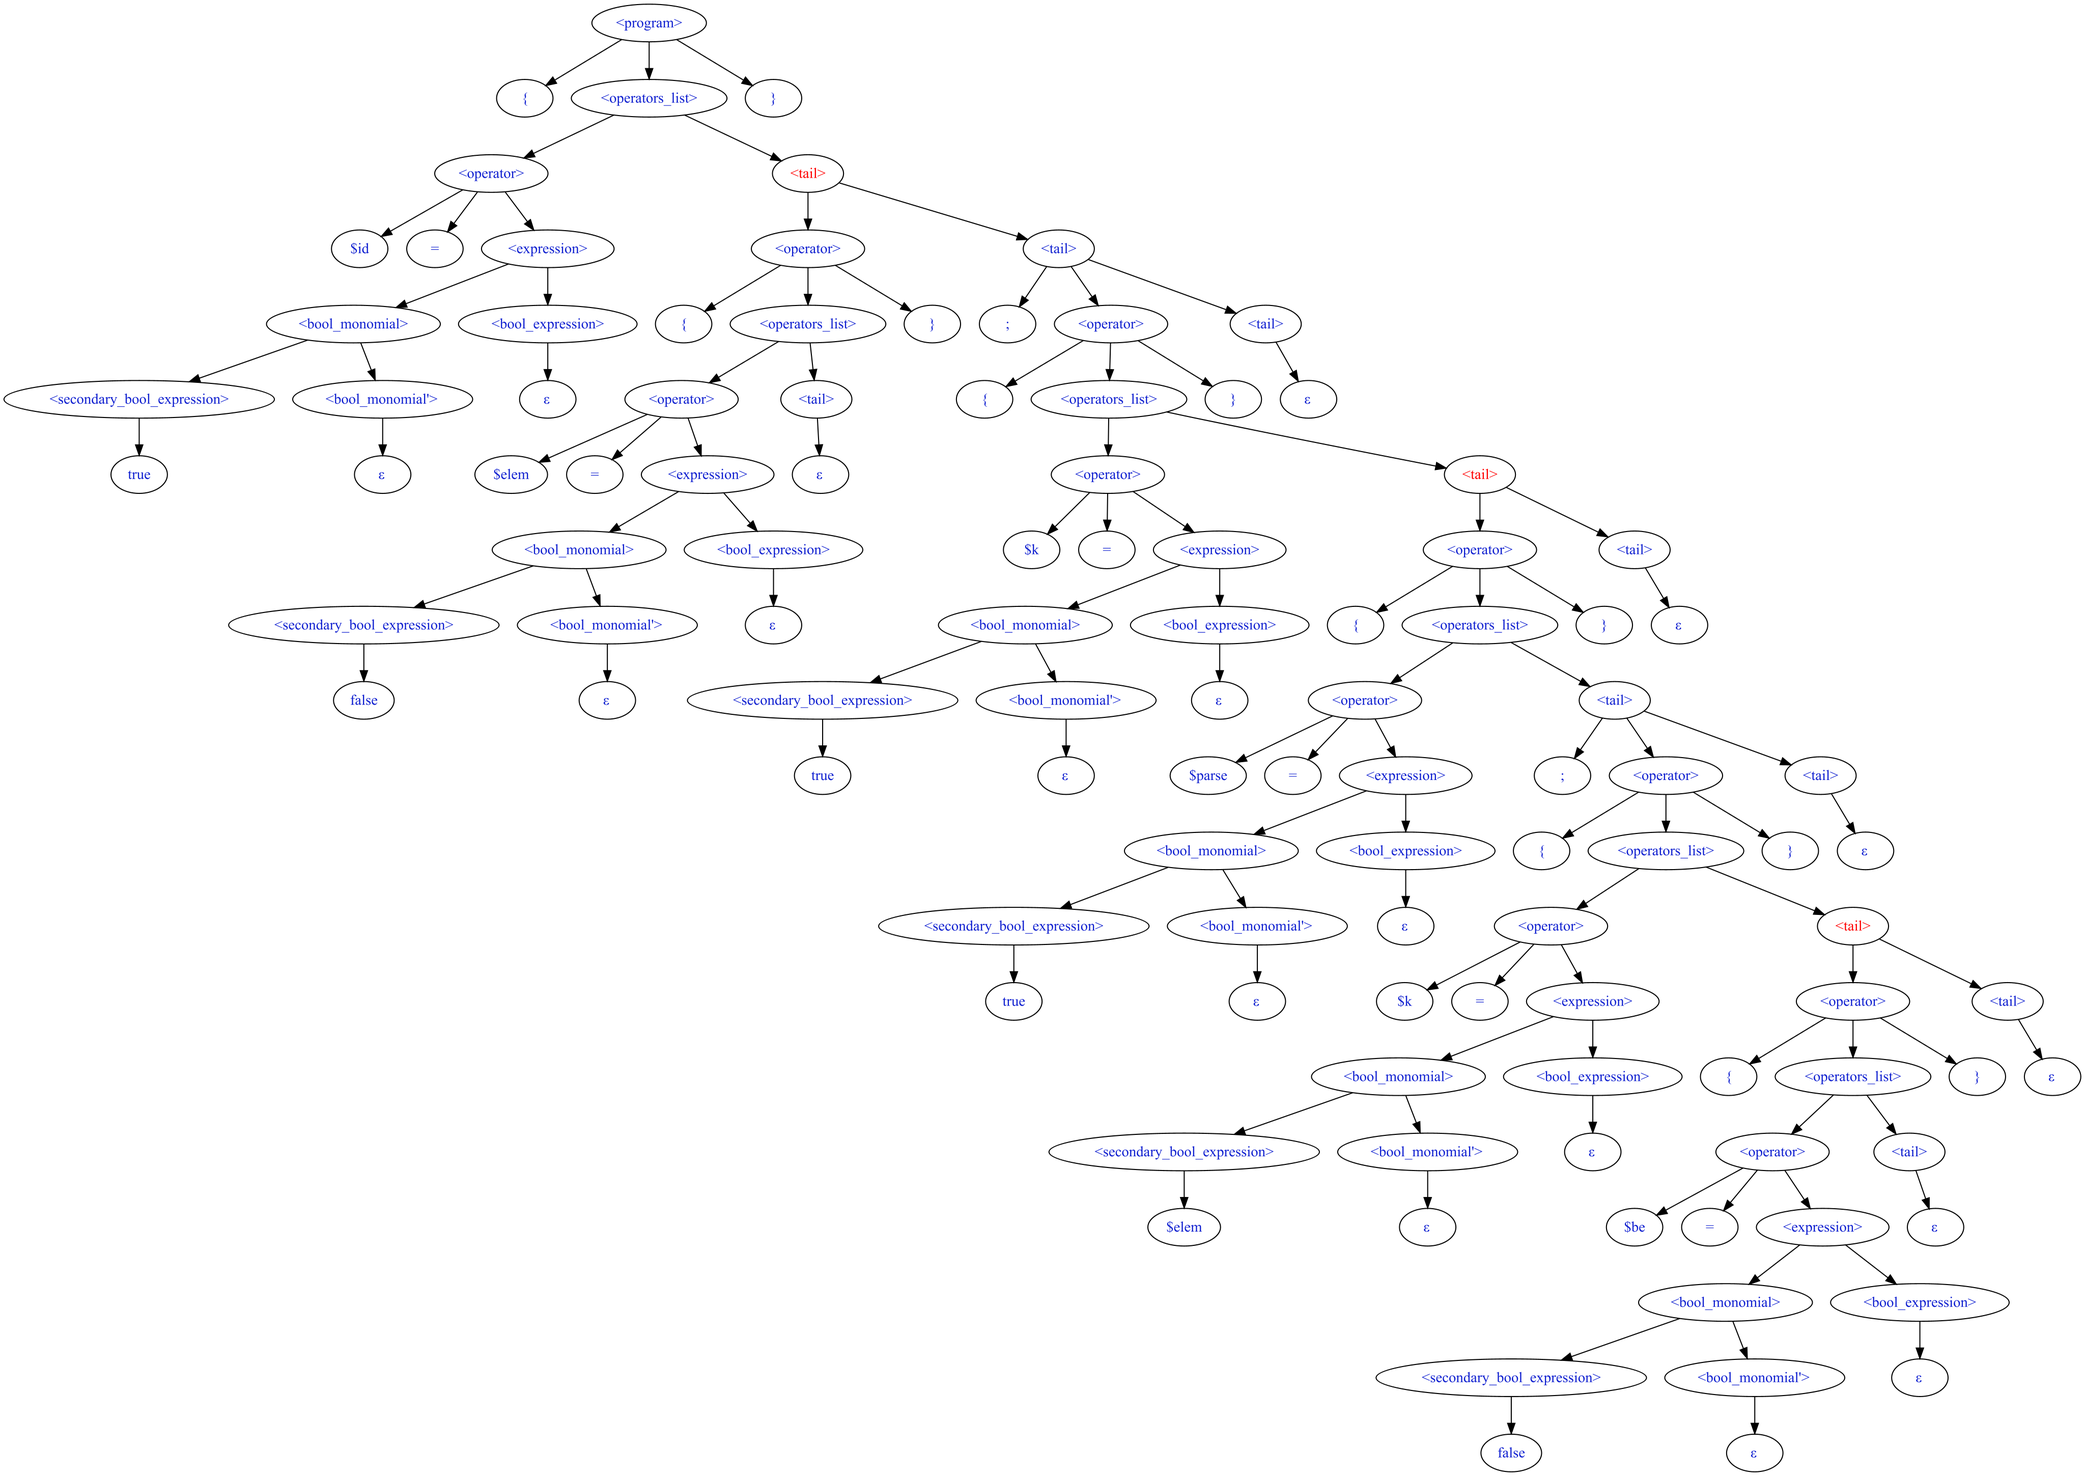
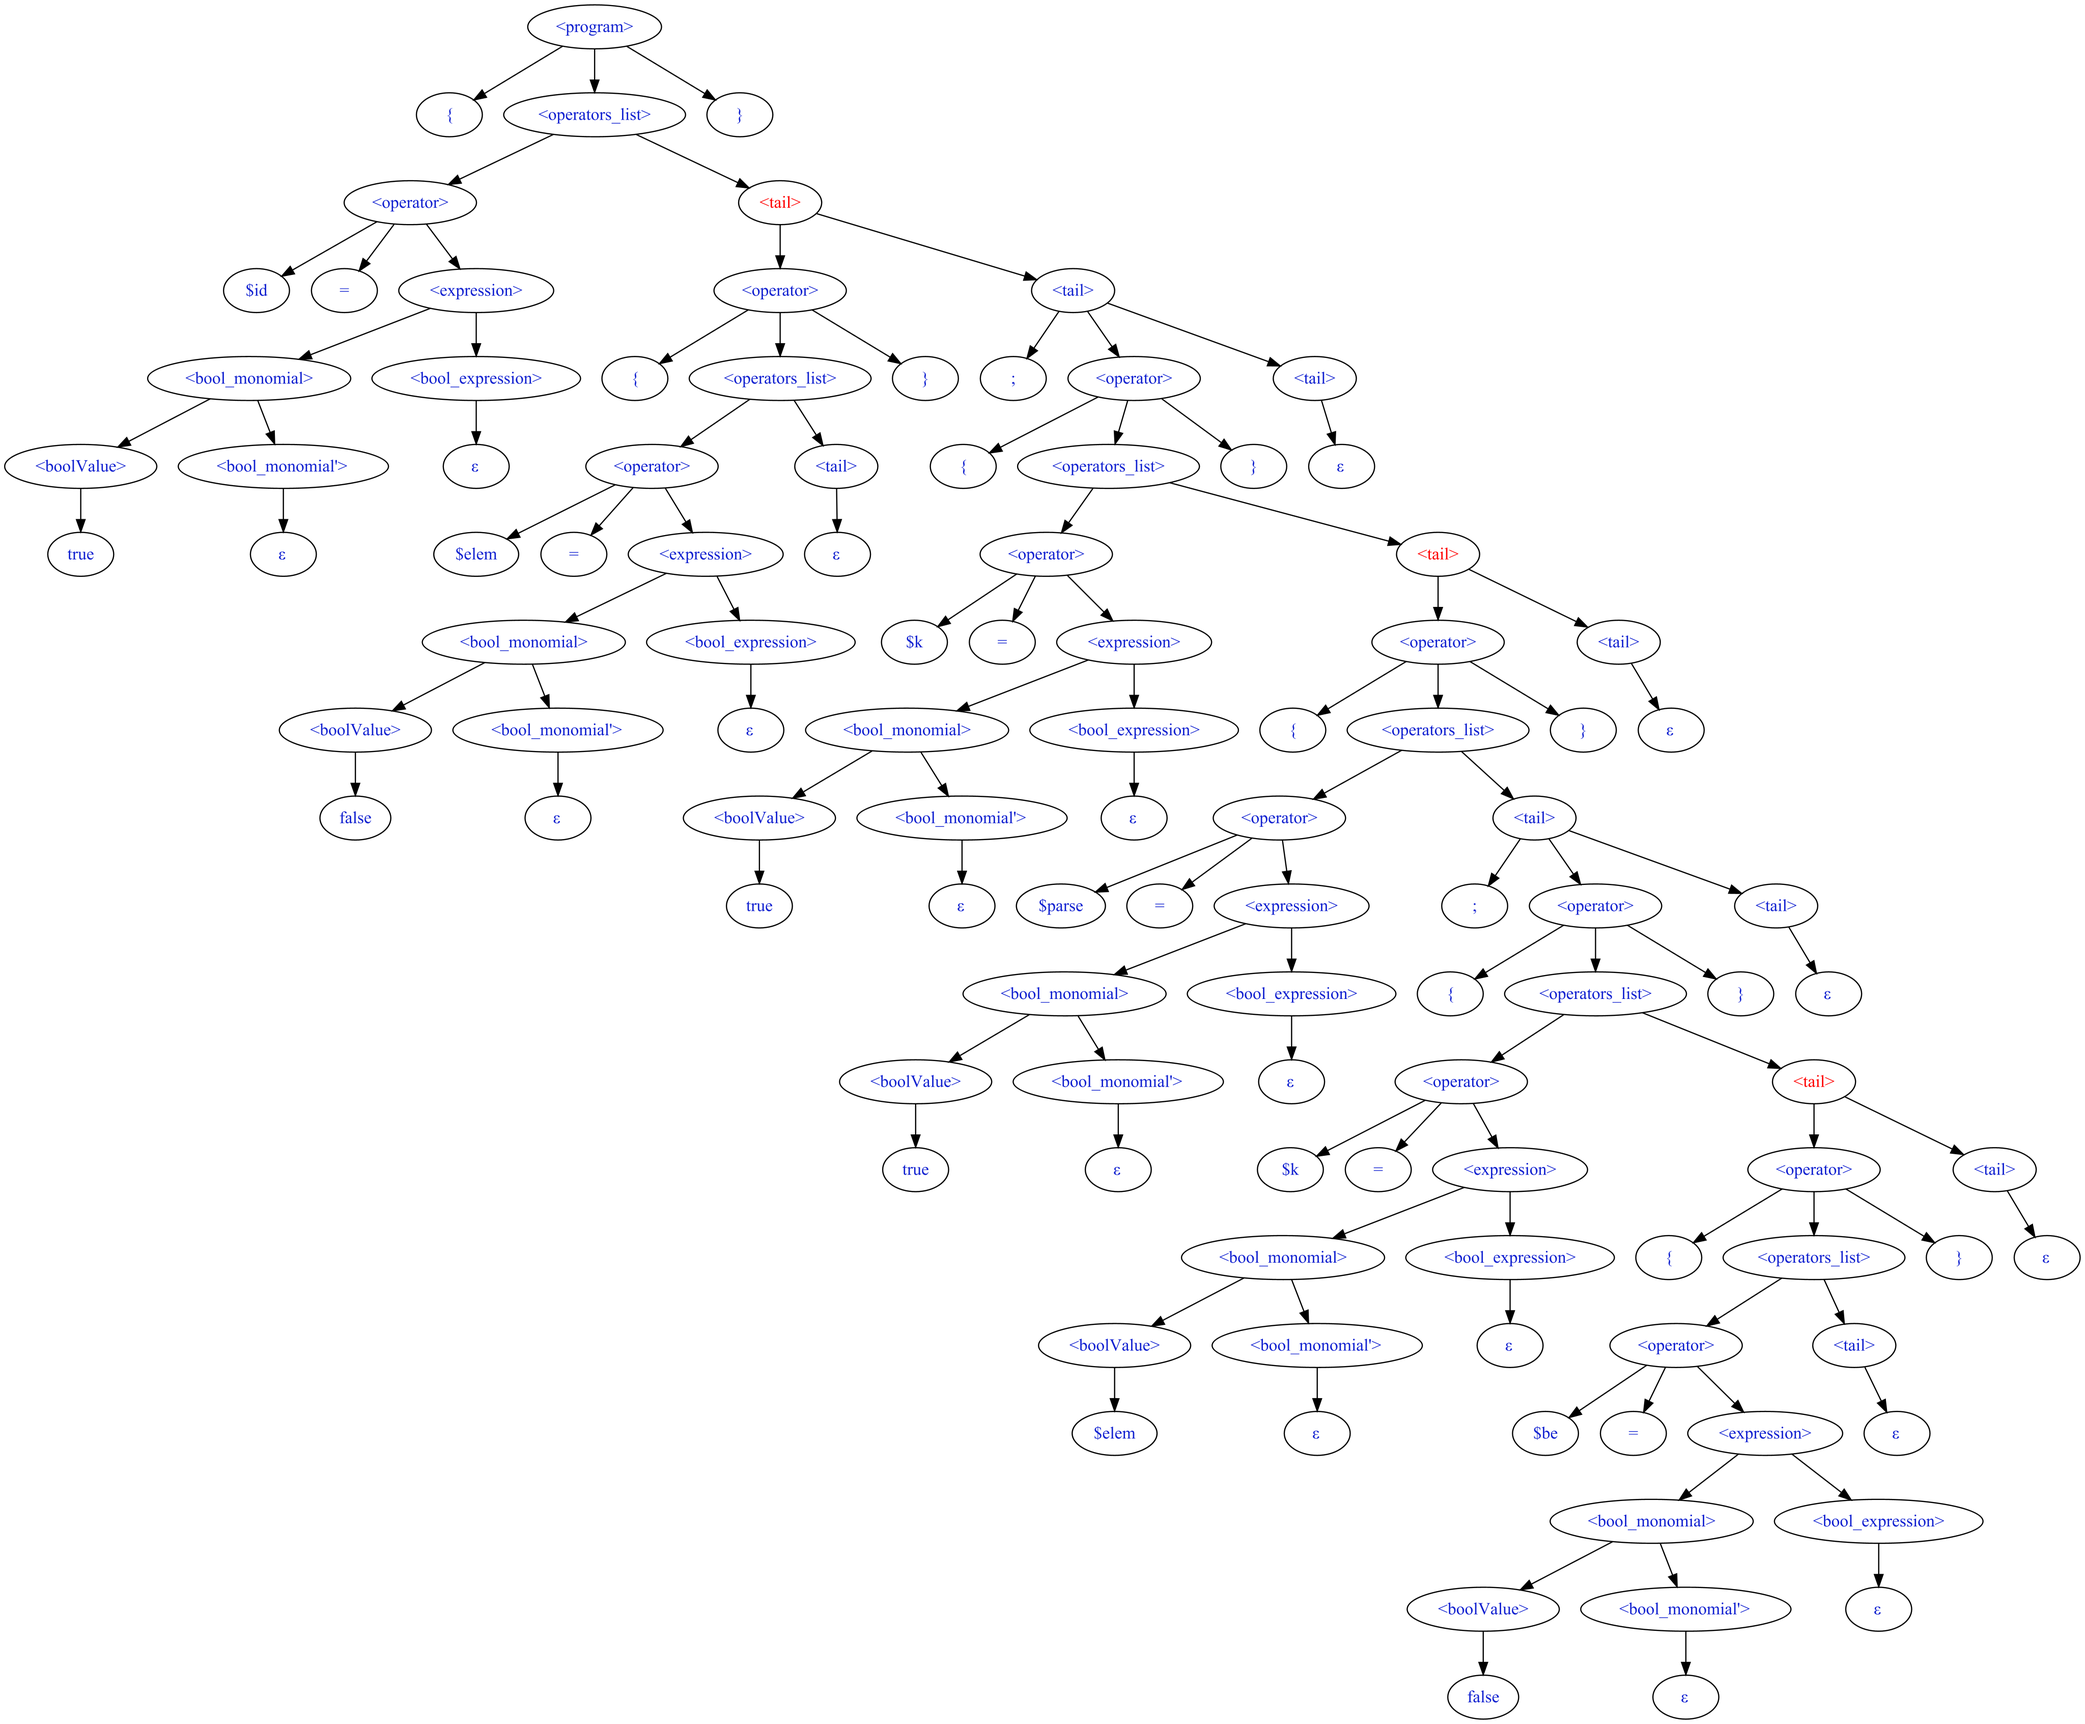
Пофиксил некоторые баги

diff --git a/src/main/java/ic7cc/ovchinnikov/lab3/parser/Parser.java b/src/main/java/ic7cc/ovchinnikov/lab3/parser/Parser.java
@@ -152,9 +152,9 @@ public class Parser {
     }
 
     private void boolMonomial(ParseTreeNode node) {
-        ParseTreeNode secondaryBoolExpression = createNonTerminalNode("secondary_bool_expression");
-        ParseTree.addNode(node, secondaryBoolExpression);
-        secondaryBoolExpression(secondaryBoolExpression);
+        ParseTreeNode boolValue = createNonTerminalNode("boolValue");
+        ParseTree.addNode(node, boolValue);
+        boolValue(boolValue);
         ParseTreeNode _boolMonomial = createNonTerminalNode("bool_monomial'");
         ParseTree.addNode(node, _boolMonomial);
         _boolMonomial(_boolMonomial);
@@ -180,7 +180,7 @@ public class Parser {
         }
     }
 
-    private void secondaryBoolExpression(ParseTreeNode node) {
+    private void boolValue(ParseTreeNode node) {
         if (pointer.equals(Token.NOT)) {
             ParseTree.addNode(node, createTerminalNode(pointer.getSpell()));
             pointer = lexer.next();
@@ -191,7 +191,7 @@ public class Parser {
                 System.out.println("expected id, true or false: " + lexer.point());
                 pointer = lexer.next();
                 node.setError(true);
-                secondaryBoolExpression(node);
+                boolValue(node);
             } else {
                 System.out.println("expected id, true or false: " + lexer.point());
                 node.setError(true);
@@ -200,7 +200,7 @@ public class Parser {
             System.out.println("expected not: " + lexer.point());
             pointer = lexer.next();
             node.setError(true);
-            secondaryBoolExpression(node);
+            boolValue(node);
         } else {
             if (pointer.getName().equals(Token.IDENT.getName()) || pointer.equals(Token.TRUE) || pointer.equals(Token.FALSE)) {
                 ParseTree.addNode(node, createTerminalNode(pointer.getSpell()));
@@ -209,7 +209,7 @@ public class Parser {
                 System.out.println("expected id, true or false: " + lexer.point());
                 pointer = lexer.next();
                 node.setError(true);
-                secondaryBoolExpression(node);
+                boolValue(node);
             } else {
                 System.out.println("expected id, true or false: " + lexer.point());
                 node.setError(true);
@@ -221,9 +221,9 @@ public class Parser {
         if (pointer.equals(Token.AND)) {
             ParseTree.addNode(node, createTerminalNode(pointer.getSpell()));
             pointer = lexer.next();
-            ParseTreeNode secondaryBoolExpression = createNonTerminalNode("secondary_bool_expression");
-            ParseTree.addNode(node, secondaryBoolExpression);
-            secondaryBoolExpression(secondaryBoolExpression);
+            ParseTreeNode boolValue = createNonTerminalNode("boolValue");
+            ParseTree.addNode(node, boolValue);
+            boolValue(boolValue);
             ParseTreeNode _boolMonomial = createNonTerminalNode("bool_monomial'");
             ParseTree.addNode(node, _boolMonomial);
             _boolMonomial(_boolMonomial);
@@ -231,7 +231,12 @@ public class Parser {
             System.out.println("expected bool_expression: " + pointer.getSpell());
             pointer = lexer.next();
             node.setError(true);
-            _boolMonomial(node);
+            ParseTreeNode boolValue = createNonTerminalNode("boolValue");
+            ParseTree.addNode(node, boolValue);
+            boolValue(boolValue);
+            ParseTreeNode _boolMonomial = createNonTerminalNode("bool_monomial'");
+            ParseTree.addNode(node, _boolMonomial);
+            _boolMonomial(_boolMonomial);
         } else {
             ParseTree.addNode(node, createTerminalNode("\u03B5"));
         }
